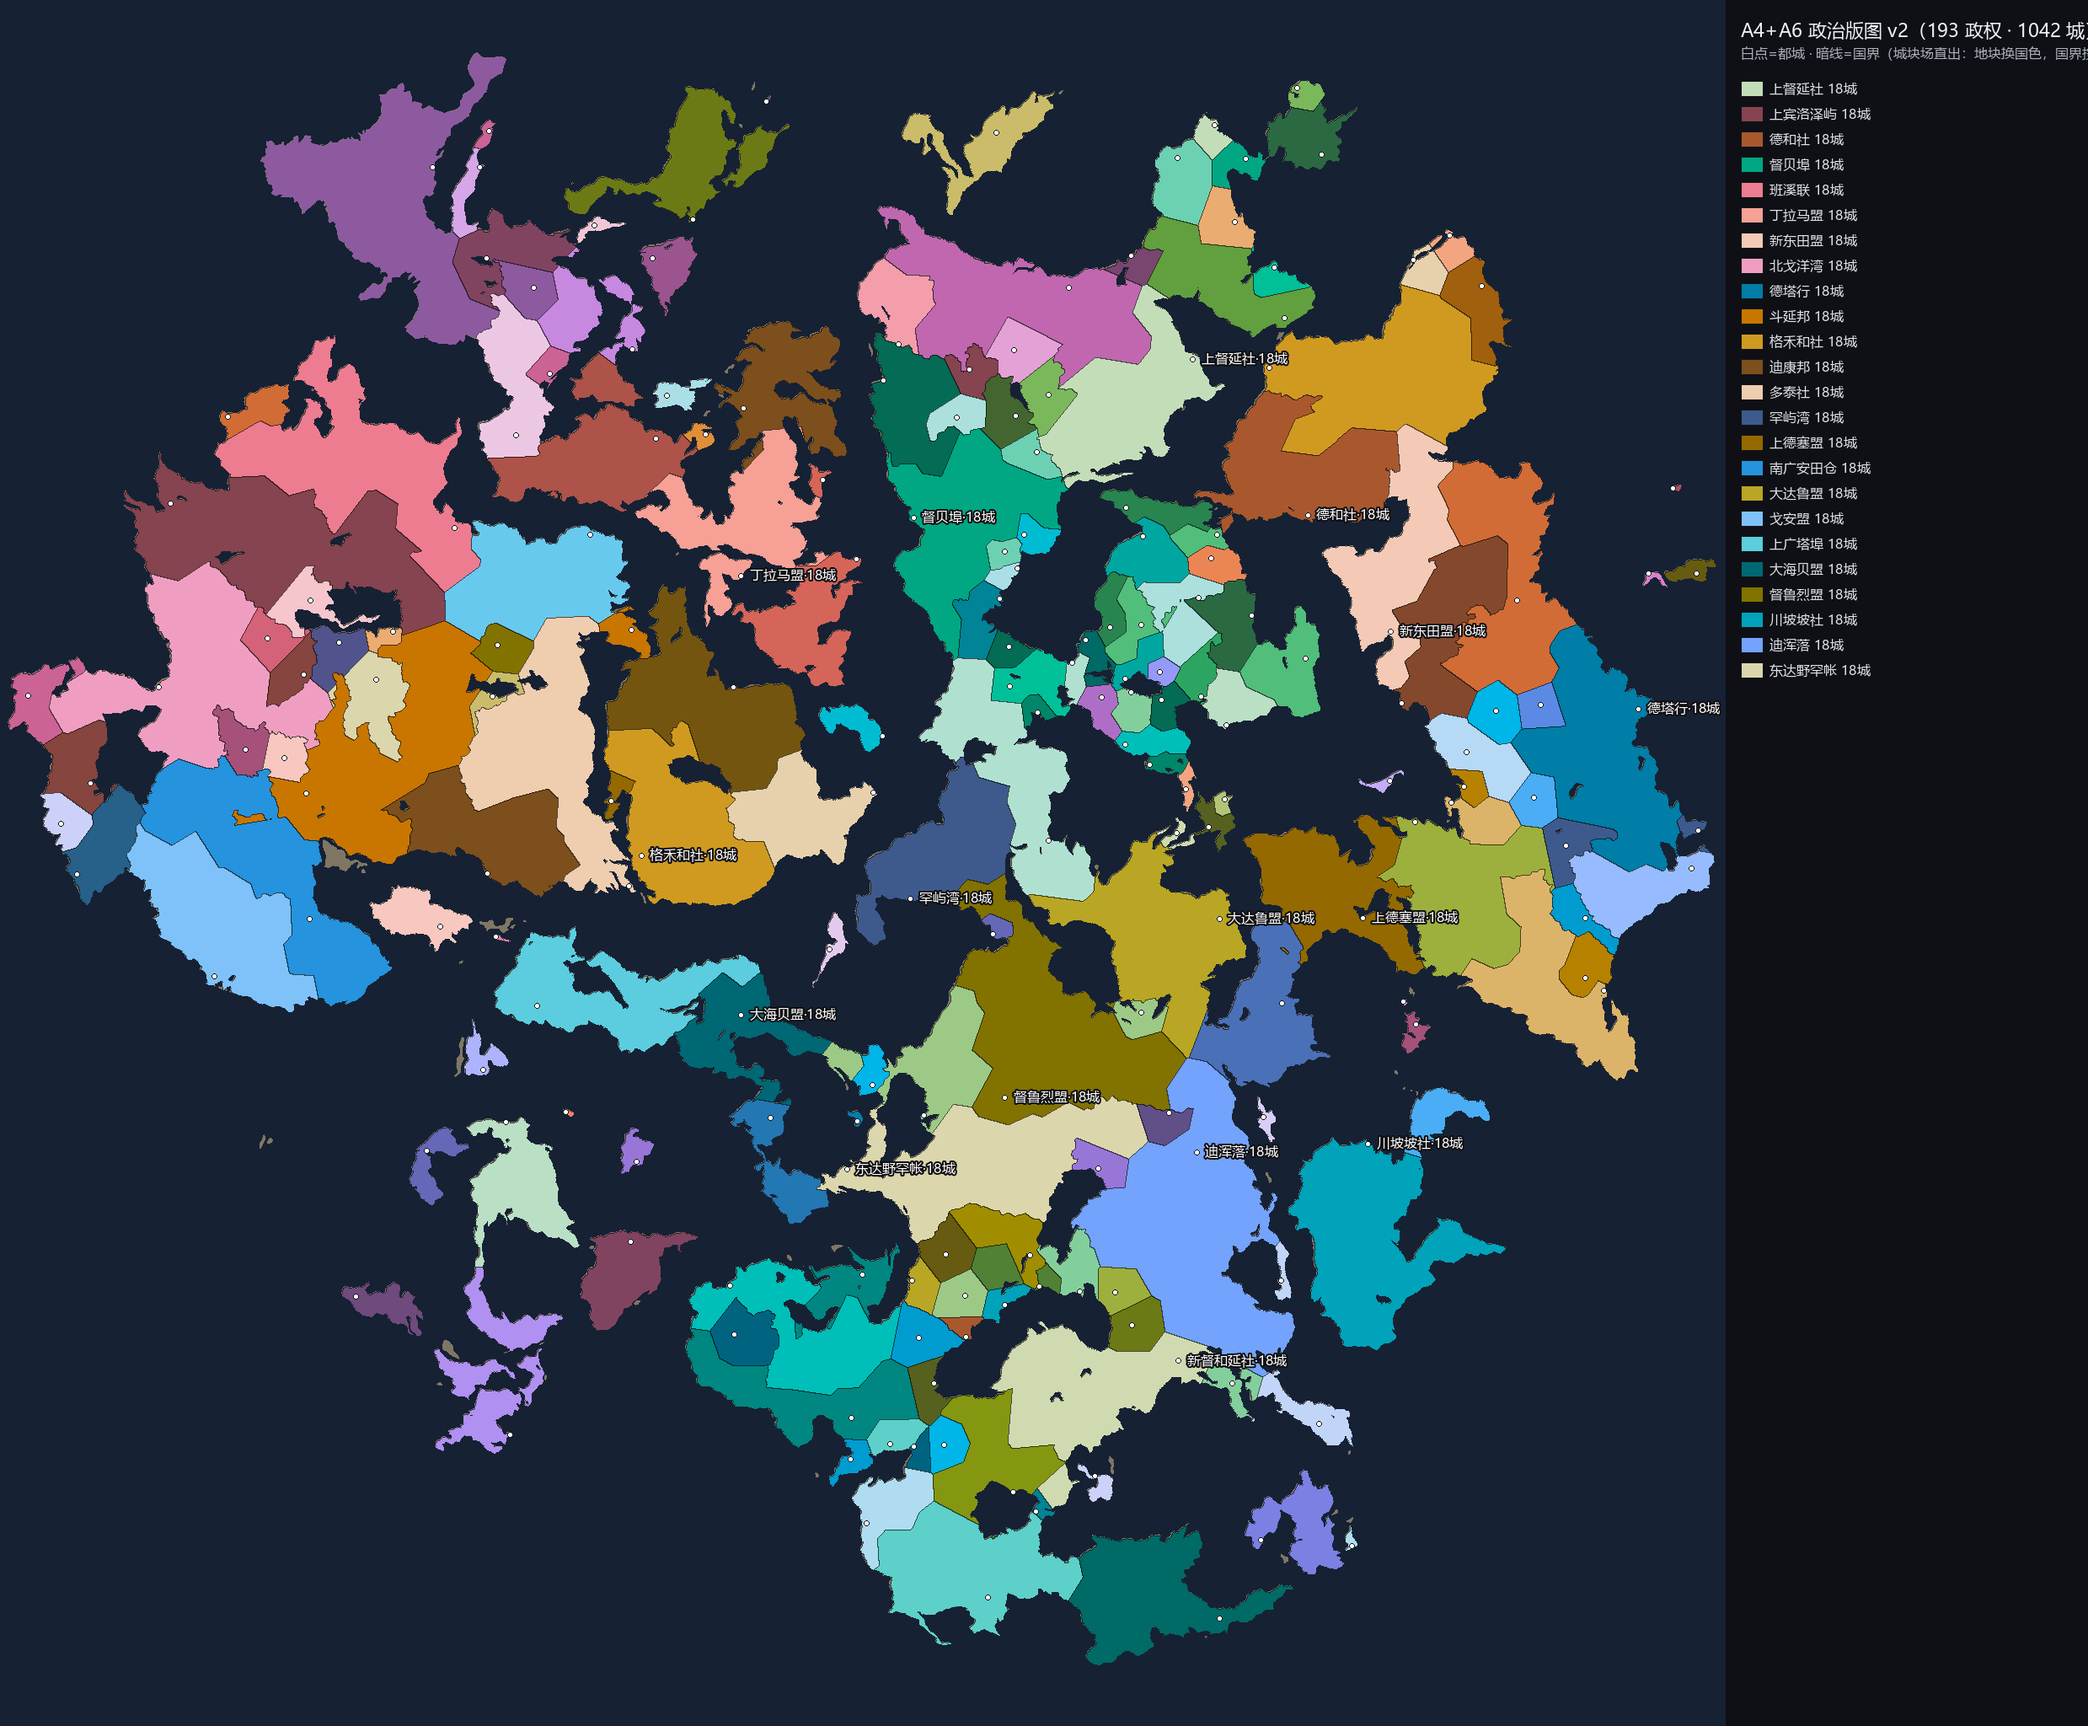
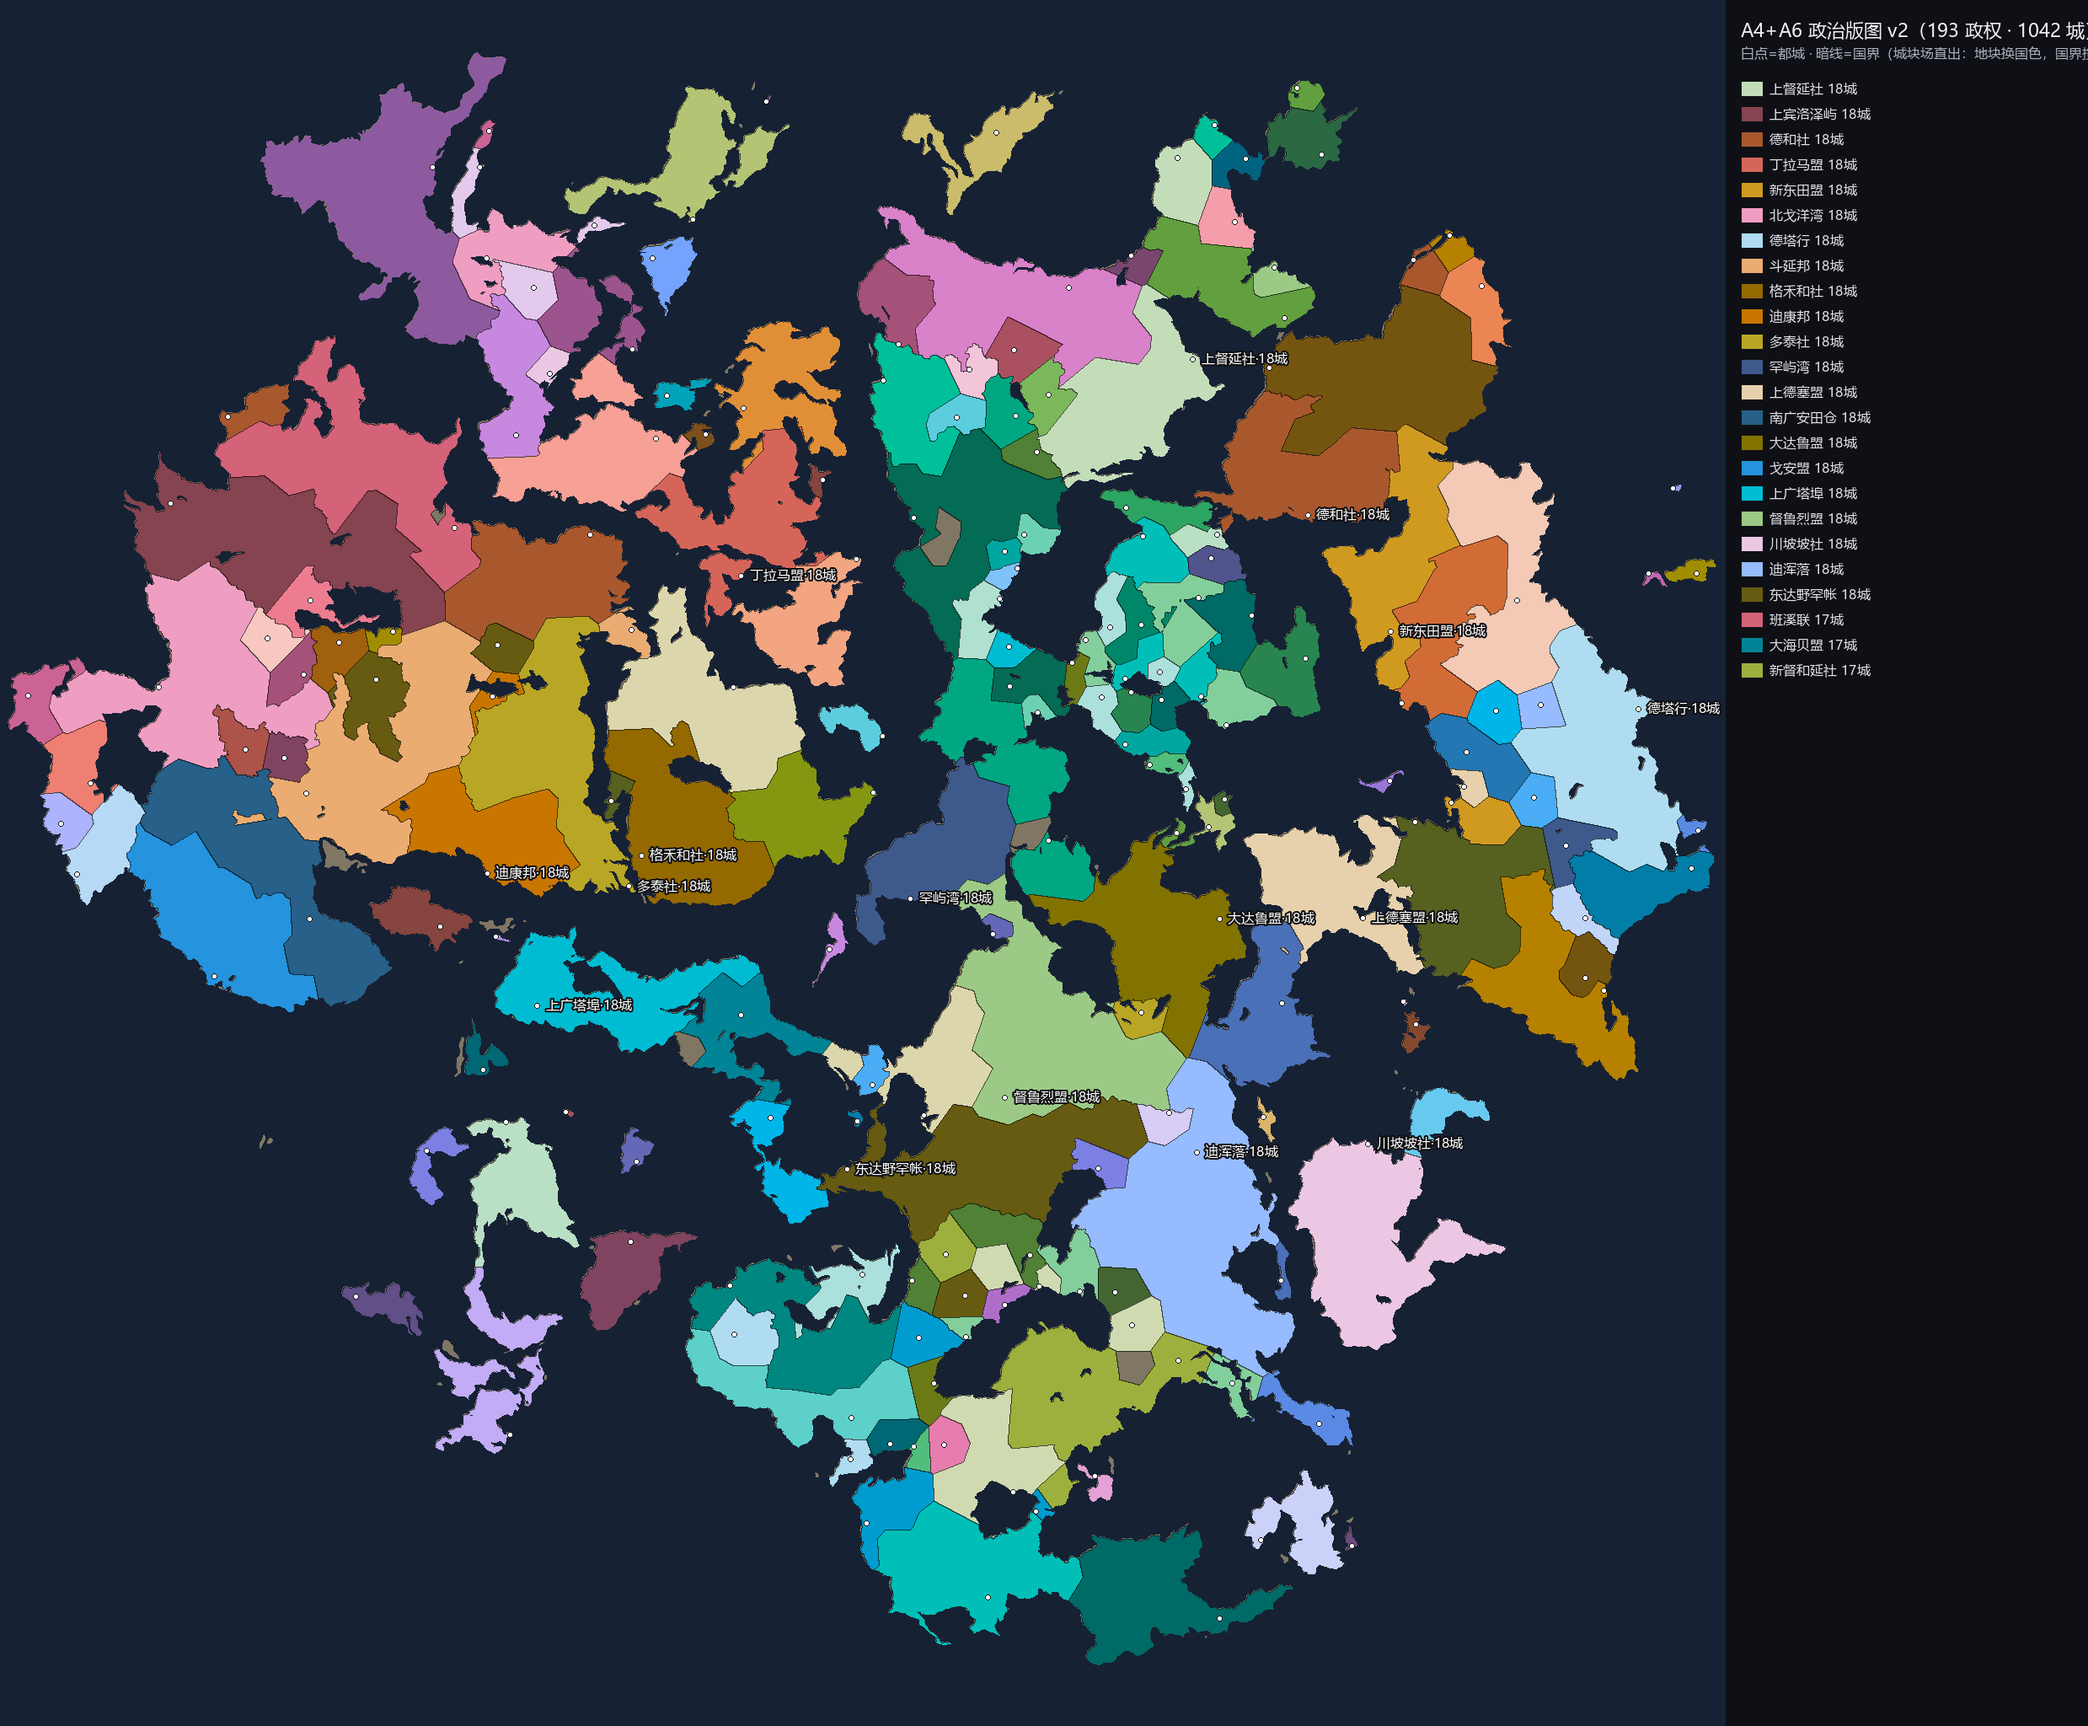
fix(worldgen): 原址复种点回归无主荒地（创始人 2026-09-28 指正）——n_cities/归属输出剥离 level0、政治图灰显、mask 253；193 bump（测试三件+初始化器头注/原址点不建城实体）；出生包重导脚本改 L1 69/city_399；守恒断言改正常聚落口径

diff --git a/tools/worldgen/l3/state_build_v2.py b/tools/worldgen/l3/state_build_v2.py
@@ -235,8 +235,8 @@ def emerge_states(cities, adj, edges, cap, spawn_labels, spawn_cap, n_target):
     上限时兼并（winner = 城数多者，并列比人口、再比 label 小）——文化近亲 +
     地理便宜先并，即「打出来的版图」在生成期的确定性加速版。上限 = 谱 cap；
     出生 L1（spawn_labels）政权封顶 spawn_cap（合并到此即停、不许长成大国）。
-    返回 (owner, states, n_merge, n_core)；level==0 填充点暂不归属（owner=-1，
-    由 assign_orphans 收尾）。
+    返回 (owner, states, n_merge, n_core)；level==0 原址复种点不属任何政权
+    （owner=-1，由 assign_orphans 记账到附属国——输出层剥离为无主）。
     """
     n = len(cities)
     is_core = [cities[u]["level"] > 0 for u in range(n)]
@@ -309,7 +309,10 @@ def emerge_states(cities, adj, edges, cap, spawn_labels, spawn_cap, n_target):
 
 
 def assign_orphans(owner, states, cities, adj, core):
-    """level==0 填充点归属：并入接触边权最低的邻接政权（无则最近微核）。"""
+    """level==0 原址复种点记账：并入接触边权最低的邻接政权（无则最近微核）。
+
+    仅内部记账（避免 -1 哨兵穿透 rename/终态闸）；政权归属输出层剥离——
+    city_owners 落空串（无主荒地）、n_cities 不计复种点。"""
     for u in range(len(cities)):
         if owner[u] != -1:
             continue
@@ -869,12 +872,14 @@ def build(P, dry_run=False, skip_preview=False):
         sid = rename[old]
         c = s["culture"]
         cid = ("cult_%02d" % c) if c > 0 else None
+        # 原址复种点（level 0）不算政权城：n_cities/is_city_state 只数正常聚落
+        n_real = sum(1 for u in s["cities"] if cities[u]["level"] > 0)
         states_out[sid] = {
             "name": "", "capital": s["capital"], "culture": int(c),
             "culture_id": cid, "race": race_by_culture.get(cid),
-            "alliance": None, "is_city_state": len(s["cities"]) == 1,
-            "name_status": "提案/待定", "n_cities": len(s["cities"]),
-            "target": len(s["cities"]),
+            "alliance": None, "is_city_state": n_real == 1,
+            "name_status": "提案/待定", "n_cities": n_real,
+            "target": n_real,
             "history": {
                 "born_round": 0, "annexed": s["annexed"],
                 "flips_in": 0, "flips_out": 0, "collapsed": False,
@@ -893,7 +898,11 @@ def build(P, dry_run=False, skip_preview=False):
                              float(sp["normalize"]["sim_enclave_keep"]),
                              rename=rename)
 
-    city_owners = {cities[u]["sid"]: owner[u] for u in range(n_total)}
+    # 原址复种点（level 0）不参与政权：归属输出为空串（无主荒地，政治图灰显）；
+    # 内部 owner 仍指向附属国仅为记账（避免 -1 哨兵穿透 rename/终态闸）
+    city_owners = {cities[u]["sid"]:
+                   (owner[u] if cities[u]["level"] > 0 else "")
+                   for u in range(n_total)}
     sizes = {sid: states_out[sid]["n_cities"] for sid in states_out}
 
     # ---- 规模谱统计（先验 raw / 终局 final；target 已取消） ----
@@ -1113,6 +1122,9 @@ def make_previews(P, suit, eff_land, cities, owner, states_out, meta):
     col_by_sid = {sid: tuple(states_out[sid]["color"]) for sid in live}
     lut = np.zeros((len(cities) + 1, 3), dtype=np.uint8)
     for i, c in enumerate(cities):
+        if c["level"] <= 0:
+            lut[i + 1] = WASTELAND_RGB  # 原址复种点：无主荒地灰
+            continue
         sid = owner[c["label"] - 1]
         lut[i + 1] = col_by_sid.get(sid, (120, 120, 120))
     lab_clip = np.clip(lab, 0, len(cities) - 1)
@@ -1129,7 +1141,7 @@ def make_previews(P, suit, eff_land, cities, owner, states_out, meta):
     sid_idx = {sid: i + 1 for i, sid in enumerate(live)}
     own_int = np.zeros(len(cities) + 1, dtype=np.int32)
     for i, c in enumerate(cities):
-        own_int[i + 1] = sid_idx.get(owner[c["label"] - 1], 0)
+        own_int[i + 1] = 0 if c["level"] <= 0 else sid_idx.get(owner[c["label"] - 1], 0)
     own_lab = own_int[lab_clip + 1]
     b_h = (own_lab[1:, :] != own_lab[:-1, :]) & landm[1:, :] & landm[:-1, :]
     b_w = (own_lab[:, 1:] != own_lab[:, :-1]) & landm[:, 1:] & landm[:, :-1]

diff --git a/tools/worldgen/l3/state_check_v2.py b/tools/worldgen/l3/state_check_v2.py
@@ -82,20 +82,26 @@ def main():
         check_fail(fails, "城表全覆盖", "缺 %d / 多 %d（如 %s）"
                    % (len(missing), len(extra),
                       (sorted(missing)[:3] + sorted(extra)[:3])))
-    dangling = {v for v in city_owners.values() if v not in states}
+    # 空串 = 无主（原址复种点 level 0，不参与政权）；非空 owner 才要求指向存续 states
+    dangling = {v for v in city_owners.values() if v and v not in states}
     if dangling:
         check_fail(fails, "悬空引用", "%d 个 owner 不在 states：%s"
                    % (len(dangling), sorted(dangling)[:3]))
     cnt_by_state = {}
+    n_free = 0
     for v in city_owners.values():
-        cnt_by_state[v] = cnt_by_state.get(v, 0) + 1
+        if v:
+            cnt_by_state[v] = cnt_by_state.get(v, 0) + 1
+        else:
+            n_free += 1
     bad_n = [sid for sid, s in states.items()
              if s["n_cities"] != cnt_by_state.get(sid, 0)]
     if bad_n:
         check_fail(fails, "n_cities 对账", "%d 国与 city_owners 计数不符（如 %s）"
                    % (len(bad_n), bad_n[:3]))
     elif not dangling:
-        check_ok("n_cities 对账", "逐国 n_cities == 名下城数（Σ=%d）" % n_set)
+        check_ok("n_cities 对账", "逐国 n_cities == 名下城数（Σ=%d，无主 %d）"
+                 % (n_set - n_free, n_free))
 
     # ---- 2) target 与实际偏差带（A6 前快照 + 容差） ----
     alloc = meta["allocation_check"]["states"]
@@ -112,8 +118,10 @@ def main():
         check_fail(fails, "target 偏差带", "超带 %d 国 > 容差 %d：%s"
                    % (len(band_bad), tol,
                       ["%s t%d/g%d" % x for x in band_bad[:8]]))
-    if abs(sum(a["got"] for a in alloc.values()) - n_set) > 0:
-        check_fail(fails, "分配快照守恒", "Σgot ≠ 总城数")
+    # 守恒口径：正常聚落 = 总聚落 − 无主原址点（Σgot 只数参政城）
+    if abs(sum(a["got"] for a in alloc.values()) - (n_set - n_free)) > 0:
+        check_fail(fails, "分配快照守恒", "Σgot ≠ 正常聚落数（%d − 无主 %d）"
+                   % (n_set, n_free))
 
     # ---- 3) 规模谱（终局，核心验收） ----
     sizes = {sid: s["n_cities"] for sid, s in states.items()}
@@ -203,9 +211,9 @@ def main():
                    "initial %d + born %d − extinct %d = %d ≠ final %d（states %d）"
                    % (h["states_initial"], h["states_born"], h["states_extinct"],
                       expect_final, h["states_final"], len(states)))
-    elif sum(sizes.values()) != n_set:
-        check_fail(fails, "A6 自洽-城数守恒", "Σ n_cities = %d ≠ %d"
-                   % (sum(sizes.values()), n_set))
+    elif sum(sizes.values()) != n_set - n_free:
+        check_fail(fails, "A6 自洽-城数守恒", "Σ n_cities = %d ≠ 正常聚落数 %d"
+                   % (sum(sizes.values()), n_set - n_free))
     else:
         check_ok("A6 事件自洽", "兼并 %d / 解体 %d / 易手 %d；政权 %d → %d（新生 "
                  "%d、消亡 %d，守恒）；终局 Σ城 = %d" % (

diff --git a/tools/worldgen/l3/reexport_political_id.py b/tools/worldgen/l3/reexport_political_id.py
@@ -92,6 +92,26 @@ def build_mask8():
             code = CODE_FREE
             n_free += 1
         code_lut[int(t["label"])] = code
+    # owners 覆盖层：原址复种点（level 0，不在 l3_city tiles）归属为空 = 无主
+    # 荒地（253）——不补则这些块落 0=海洋码；其余 owners 补齐 tile 缺失的 lut 码
+    pdata = json.load(open(os.path.join(GAME_CFG, "political_data.json"),
+                           encoding="utf-8"))
+    n_overlay = 0
+    n_free0 = 0
+    for sid_path, state_id in pdata.get("city_owners", {}).items():
+        lb = int(str(sid_path).replace("settlement_city_", ""))
+        if lb <= n_lab and code_lut[lb] == 0:
+            code = lut_of_state.get(str(state_id), 0) if state_id else 0
+            if code > 0:
+                code_lut[lb] = code
+                n_overlay += 1
+            else:
+                code_lut[lb] = CODE_FREE
+                n_free0 += 1
+    # 兜底：仍无码的 label（数据缺失防御）一律荒地，杜绝陆上 0=海洋码
+    for lb in range(1, n_lab + 1):
+        if code_lut[lb] == 0:
+            code_lut[lb] = CODE_FREE
     arr = np.zeros(refined.shape, dtype=np.uint8)
     land = refined > 0
     arr[land] = code_lut[refined[land]]
@@ -99,8 +119,8 @@ def build_mask8():
     land8 = np.asarray(Image.open(LOCKED).convert("L")) > 127
     hole = (refined == 0) & land8 & (~lake_r)
     arr[hole] = CODE_FREE
-    print("[1] mask8 %s 城块码 %d 种，无归属=FREE %d 块，湖 %d px，荒野回填 %d px"
-          % (arr.shape, len(np.unique(arr[land])), n_free,
+    print("[1] mask8 %s 城块码 %d 种，无归属=FREE %d 块，owners 覆盖 %d 块，湖 %d px，荒野回填 %d px"
+          % (arr.shape, len(np.unique(arr[land])), n_free, n_overlay,
              int(((~land) & lake_r).sum()), int(hole.sum())))
     return arr
 

diff --git a/tools/worldgen/l3/bake_political_v2.py b/tools/worldgen/l3/bake_political_v2.py
@@ -86,9 +86,13 @@ def bake_l3_and_political_data():
         l3 = json.load(f)
     tiles = l3["tiles"]
     labels = sorted(int(t["label"]) for t in tiles)
-    assert labels == list(range(1, n_cities + 1)), \
-        "l3_city tiles label 与 v2 城表不对齐（%d..%d / %d 城）" % (
-            labels[0], labels[-1], n_cities)
+    # owners 可含原址复种点（level 0，涌现制下已归政权）——l3_city tiles 只覆盖正常聚落，
+    # 对齐口径 = tiles label 连续且全部在 owners 内
+    assert labels == list(range(1, len(labels) + 1)), \
+        "l3_city tiles label 应连续 1..N（现 %d..%d / %d 块）" % (
+            labels[0], labels[-1], len(labels))
+    assert all(sid_of(lb) in owners for lb in labels), \
+        "l3_city tiles 存在 owners 未覆盖的城块"
 
     for t in tiles:
         lb = int(t["label"])
